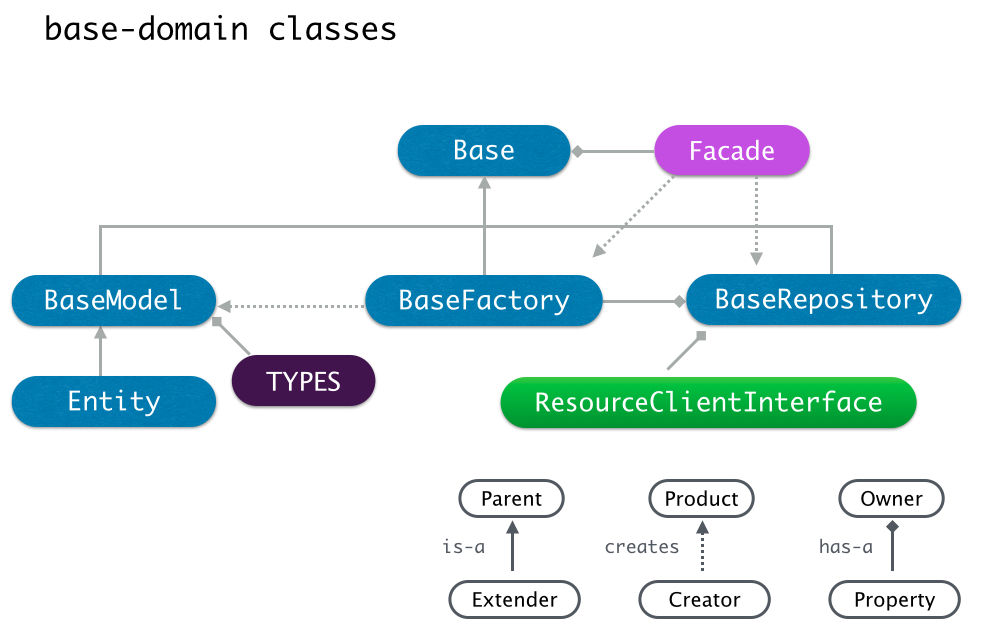
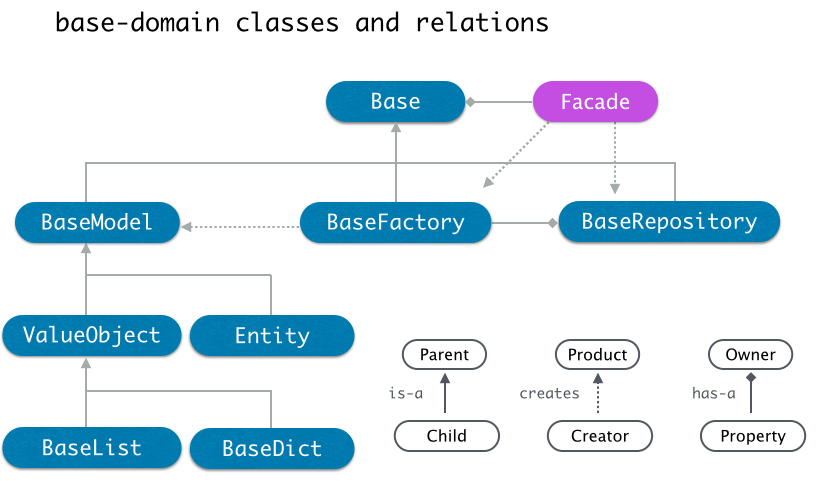
update README close #22

diff --git a/README.md b/README.md
@@ -1,11 +1,10 @@
-[![Stories in Ready](https://badge.waffle.io/CureApp/base-domain.png?label=ready&title=Ready)](https://waffle.io/CureApp/base-domain)
+[![Stories in Progress](https://badge.waffle.io/CureApp/base-domain.png?label=In%20Progress&title=In Progress)](https://waffle.io/CureApp/base-domain)
 # base-domain
 
-simple module to help build Domain-Driven Design"
+framework for Domain-Driven Design in JavaScript (or CoffeeScript, recommended.)
 
 [latest API documentation Page](http://cureapp.github.io/base-domain/doc/index.html)
 
-![concept](https://github.com/CureApp/base-domain/blob/master/base-domain-classes.png "base-domain-classes")
 
 ## installation
 
@@ -14,9 +13,92 @@ $ npm install -g base-domain
 ```
 
 
+## concept
+base-domain helps easier practice of Domain-Driven Design.
+
+1. list models in the domain of your concern (by your own way)
+1. define models with base-domain
+1. define their factories with base-domain
+1. define their repositories with base-domain
+1. define services with base-domain if needed
+
+### essential classes and relations
+- Base
+- Facade
+- BaseModel
+- BaseFactory
+- BaseRepository
+- Entity
+- ValueObject
+- BaseList
+- BaseDict
+
+![class relations](https://github.com/CureApp/base-domain/blob/master/base-domain-classes.png "base-domain-classes")
+
+#### Base
+[API Doc](http://cureapp.github.io/base-domain/doc/classes/Base.html)
+- Base is an origin of all classes
+- Base has Facade
+- Base does not have any other properties or methods
+
+#### Facade
+[API Doc](http://cureapp.github.io/base-domain/doc/classes/Facade.html)
+- Facade is the gate of all classes
+- Facade knows all classes
+- Facade is module-exported in base-domain: require('base-domain') returns Facade class
+
+#### BaseModel
+[API Doc](http://cureapp.github.io/base-domain/doc/classes/BaseModel.html)
+- BaseModel is a base class of model
+- essential methods for model are defined
+- BaseModel is a child of Base
+
+#### BaseFactory
+[API Doc](http://cureapp.github.io/base-domain/doc/classes/BaseFactory.html)
+- BaseFactory is a base class of factory
+- BaseFactory creates specific BaseModel instance
+- BaseFactory is a child of Base
+
+#### BaseRepository
+[API Doc](http://cureapp.github.io/base-domain/doc/classes/BaseRepository.html)
+- BaseRepository is a base class of repository
+- BaseRepository connects to database, filesystem or other external data resources (settings needed).
+- BaseRepository saves specific BaseModel to data resources
+- BaseRepository read BaseModels from data resources
+- BaseRepository base BaseFactory (to generate BaseModel from data resources)
+
+
+#### ValueObject
+[API Doc](http://cureapp.github.io/base-domain/doc/classes/ValueObject.html)
+- ValueObject is child of BaseModel
+- instance of ValueObject does not have id
+- ValueObject.isEntity is false
+- that's all of ValueObject
+
+#### Entity
+[API Doc](http://cureapp.github.io/base-domain/doc/classes/Entity.html)
+- Entity is child of BaseModel
+- instance of Entity has id
+- Entity.isEntity is true
+
+
+#### BaseList
+[API Doc](http://cureapp.github.io/base-domain/doc/classes/BaseList.html)
+- BaseList is child of ValueObject
+- BaseList has many BaseModels as items
+- BaseList#items is array of specific BaseModel
+
+#### BaseDict
+[API Doc](http://cureapp.github.io/base-domain/doc/classes/BaseDict.html)
+- BaseDict is child of ValueObject
+- BaseDict has many BaseModels as items
+- BaseDict#items is dictionary of key => specific BaseModel
+- BaseDict.key is function to get key from item
+
+
 ## usage
 
-### generate base file
+### generate base files
 
 ```bash
 MODEL_NAME='foo-bar'
@@ -34,8 +116,10 @@ are generated.
 - foo-bar-repository.coffee defines and exports class FooBarRepository extends BaseRepository
 
 
-
 ### model definition
+model is classified into "Entity" and "ValueObject"
+
+Entity is model with id, ValueObject is model without id.
 
 ```coffee
 # {domain-dir}/hospital.coffee
@@ -54,6 +138,54 @@ class Hospital extends require('base-domain').Entity
 
 module.exports = Hospital
 ```
+#### properties definition
+
+there are two kinds of @TYPES.XXX
+
+1. @TYPES.XXX is object
+2. @TYPES.XXX is function
+
+when @TYPES.XXX is object, you can just set props as follows
+
+```coffee
+    @properties:
+        somePropName: @TYPES.XXX
+```
+
+mark | property type     | meaning
+-----|-------------------|-----------------------------------------------------------------
+ x   | @TYPES.ANY        | prop accepts any type
+ x   | @TYPES.STRING     | prop is string
+ x   | @TYPES.NUMBER     | prop is number
+ x   | @TYPES.DATE       | prop is date
+ x   | @TYPES.BOOLEAN    | prop is boolean
+ x   | @TYPES.ARRAY      | prop is array
+ x   | @TYPES.OBJECT     | prop is object
+ x   | @TYPES.BUFFER     | prop is buffer
+ x   | @TYPES.GEOPOINT   | prop is geopoint
+ o   | @TYPES.CREATED_AT | prop is date, automatically inserted when first saved
+ o   | @TYPES.UPDATED_AT | prop is date, automatically inserted each time saved
+ o   | @TYPES.TMP        | prop is not saved
+
+these are object-typed types. Currently, types with marked "x" are just provides the name of the type.
+base-domain `does not validate` the prop's type.
+
+
+when @TYPES.XXX is function, you must set type with arguments like
+```coffee
+    @properties:
+        somePropName: @TYPES.XXX 'arg1', 'arg2'
+```
+
+ property type     | meaning           |  arg1           | arg2
+-------------------|-------------------|-----------------|-----------------------------------
+ @TYPES.MODEL      | prop is BaseModel | model name      | id prop name (if model is Entity)
+ @TYPES.MODEL_LIST | prop is BaseList  | item model name | model name (model name of BaseList)
+ @TYPES.MODEL_DICT | prop is BaseDict  | item model name | model name (model name of BaseDict)
+ @TYPES.TMP        | prop is not saved | type            |
+
+
+
 
 ### factory definition
 ```coffee
@@ -90,16 +222,40 @@ hospitalRepository = domain.createRepository('hospital')
 hosp = hospitalFactory.createFromObject(name: 'Suzuki Clinic')
 
 
-hospitalRepository.find(where: name: 'CureApp Hp.').then (hospitals)->
+hospitalRepository.query(where: name: 'CureApp Hp.').then (hospitals)->
     console.log hospitals
 
 ```
 
-## use in browser with browserify
+### baselist definition
+
+```coffee
+# {domain-dir}/hospital-list.coffee
+class HospitalList extends require('base-domain').BaseList
+
+    @itemModelName: 'hospital'
+
+module.exports = HospitalList
+```
+
+### basedict definition
+
+```coffee
+# {domain-dir}/hospital-dict.coffee
+class HospitalDict extends require('base-domain').BaseDict
+
+    @itemModelName: 'hospital'
+    @key: (item) -> item.id
+
+module.exports = HospitalDict
+```
+
+
+# use in browser with browserify
 [browserify](http://browserify.org/) is a tool for packing a js project into one file for web browsers
 
 to enable base-domain's requiring system in browsers, use 'base-domain/ify' transformer.
 
 ```bash
 browserify -t [ base-domain/ify --dirname /path/to/domain/dir ] <entry-file>
-```
+
